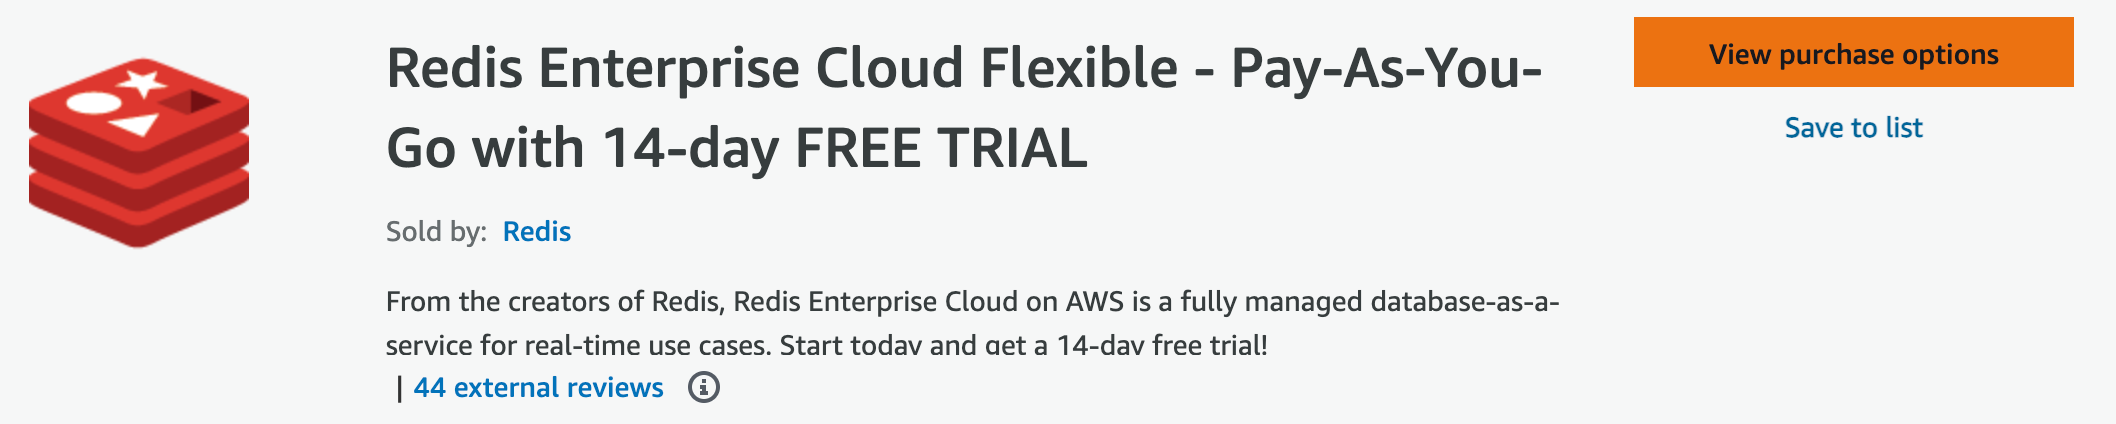
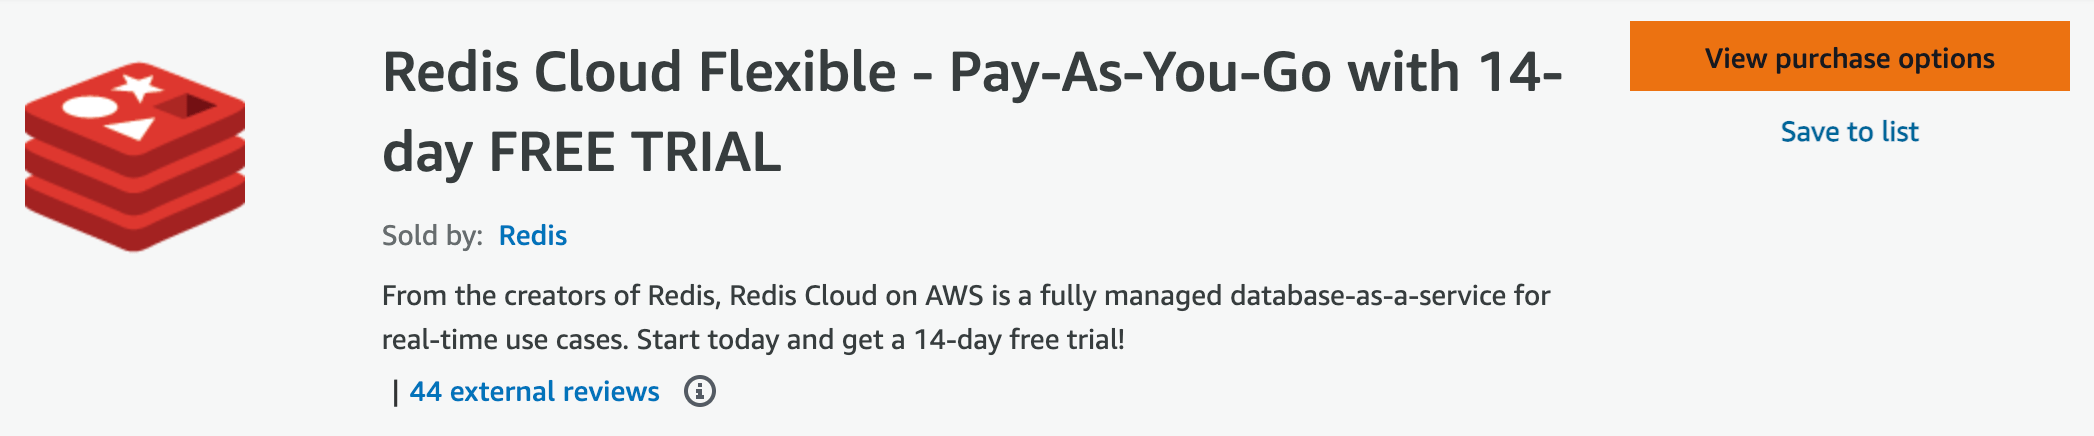
Changed screenshots and names in text

diff --git a/content/rc/cloud-integrations/gcp-marketplace/_index.md b/content/rc/cloud-integrations/gcp-marketplace/_index.md
@@ -22,9 +22,9 @@ Here's how to create a new Flexible subscription as part of your Google Cloud Ma
 
     If you don't have the correct roles, request access from your Google Cloud Billing Administrator or Organization Administrator. For more information about granting roles, see [Access control for Google Cloud Marketplace](https://cloud.google.com/marketplace/docs/access-control).
 
-1.  Search Google Cloud Marketplace for [Redis Cloud Flexible - Pay as You Go](https://console.cloud.google.com/marketplace/product/redis-marketplace-isaas/redis-enterprise-cloud-flexible-plan).
+1.  Search Google Cloud Marketplace for [Redis Cloud - Pay as You Go](https://console.cloud.google.com/marketplace/product/redis-marketplace-isaas/redis-enterprise-cloud-flexible-plan).
 
-    {{<image filename="images/rc/gcp-marketplace-rc-payg-plan.png" alt="The Redis Cloud Flexible - Pay as You Go plan listing on Google Cloud Marketplace" >}}{{< /image >}}
+    {{<image filename="images/rc/gcp-marketplace-rc-payg-plan.png" alt="The Redis Cloud - Pay as You Go plan listing on Google Cloud Marketplace" >}}{{< /image >}}
 
     Alternatively, in the navigation panel, select **More Products** and select **Redis Enterprise** under **Partner Solutions**. You can pin Redis Enterprise for easy access.
 

diff --git a/content/rc/cloud-integrations/aws-marketplace/_index.md b/content/rc/cloud-integrations/aws-marketplace/_index.md
@@ -15,11 +15,11 @@ Here's how to create a new Flexible subscription as part of your AWS Marketplace
 
 1.  Sign in to the [AWS console](https://console.aws.amazon.com/).
 
-1.  Search AWS Marketplace for [Redis Cloud - Flexible plan](https://aws.amazon.com/marketplace/pp/prodview-mwscixe4ujhkq).
+1.  Search AWS Marketplace for [Redis Cloud Flexible - Pay-As-You-Go with 14-day FREE TRIAL](https://aws.amazon.com/marketplace/pp/prodview-mwscixe4ujhkq).
 
     {{<image filename="images/rc/aws-marketplace-rc-flexible-plan.png" alt="The Redis Cloud - Flexible plan listing on AWS Marketplace" >}}{{< /image >}}
 
-1.  Subscribe to Redis Cloud - Flexible plan, locate the **Set Up Your Account button**, and then select it to begin mapping your Redis Cloud account with your AWS Marketplace account.
+1.  Subscribe to the listing, locate the **Set Up Your Account button**, and then select it to begin mapping your Redis Cloud account with your AWS Marketplace account.
 
     {{<image filename="images/rc/aws-marketplace-account-setup-button.png" alt="Use the Set Up Your Account button after subscribing to Redis Cloud with your AWS Marketplace account." width="50%">}}{{< /image >}}
 
